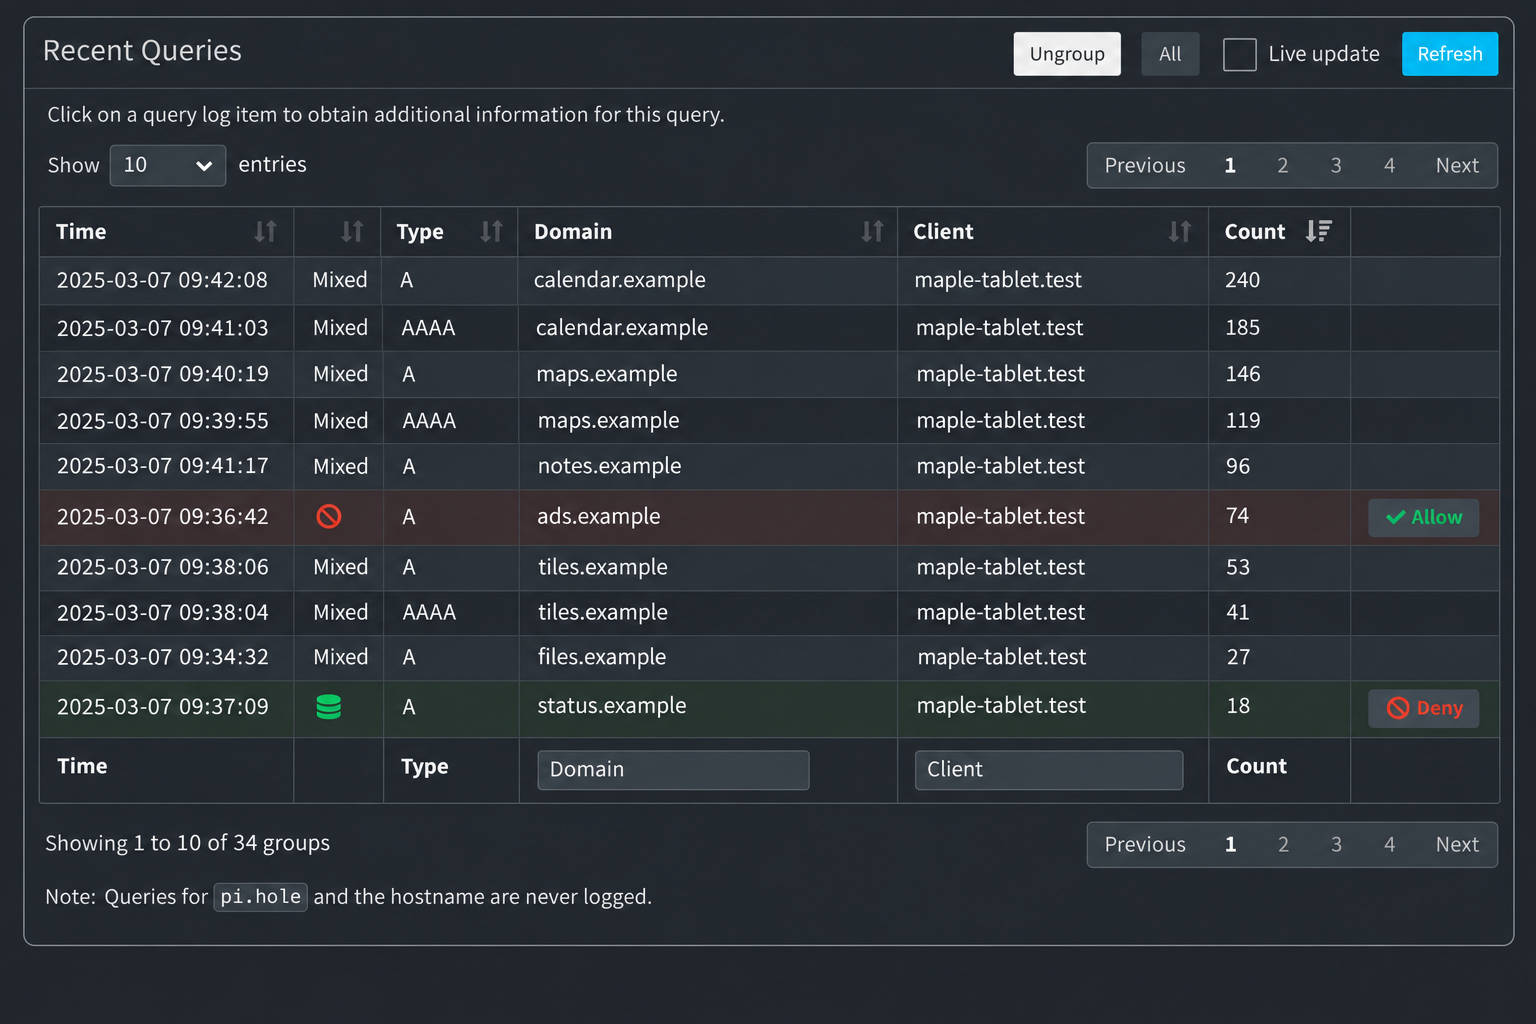
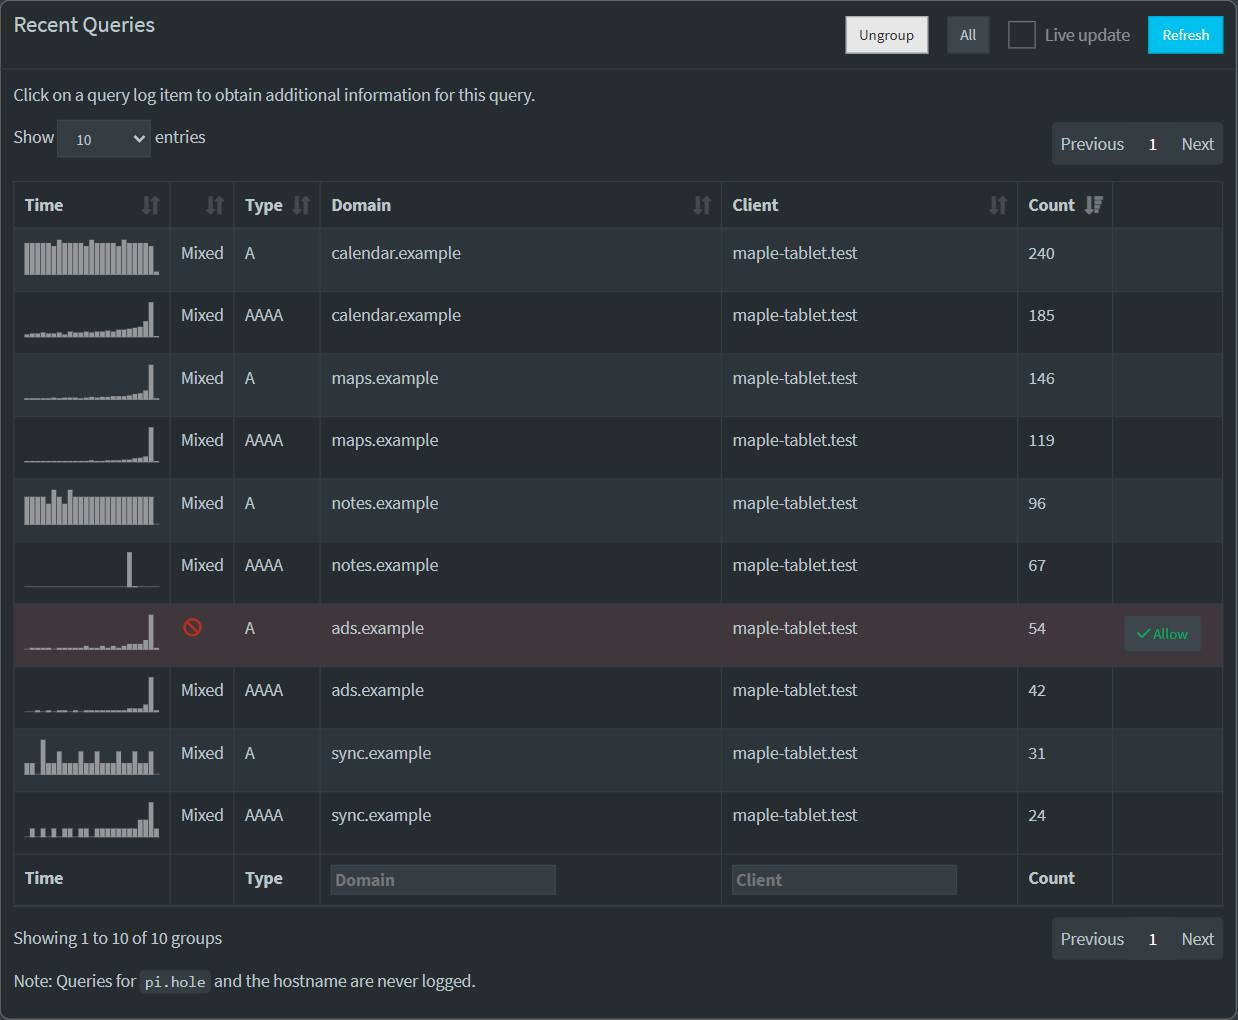
Show hourly query activity in grouped Time cells

diff --git a/README.md b/README.md
@@ -30,6 +30,8 @@ This project provides two independent patches for the Pi-hole v6 web interface. 
 
 On the queries page, at the top you can select **Group** and **Type**. Each row combines requests with the same domain, query type, and client IP. **Count** replaces reply time. It includes matching requests from all pages of the filtered results.
 
+The **Time** column shows one bar per hour. Earlier hours appear on the left. Gaps mean zero queries. Each row uses its busiest hour as its scale. Hover over a bar for the hour in UTC and its query count.
+
 ![Grouped Recent Queries with the All filter active. The Count column shows the largest groups first.](assets/grouped-query-log.jpg)
 
 In this example, one client sent 240 A queries and 185 AAAA queries for `calendar.example`. Each query type has its own row. The example uses fictional data.

diff --git a/queries.md b/queries.md
@@ -6,6 +6,8 @@ Open **Query Log** from the Pi-hole sidebar. If you also use the DHCP patch, sel
 
 Select **Group**. Each row combines requests with the same domain, query type, and client IP. **Count** replaces reply time. It includes matching requests from all pages of the filtered results.
 
+The **Time** column shows one bar per hour. Earlier hours appear on the left. Gaps mean zero queries. Each row uses its busiest hour as its scale. Hover over a bar for the hour in UTC and its query count.
+
 ![Grouped Recent Queries with the All filter active. The Count column shows the largest groups first.](assets/grouped-query-log.jpg)
 
 In this example, one client sent 240 A queries and 185 AAAA queries for `calendar.example`. Each query type has its own row. The example uses fictional data.
